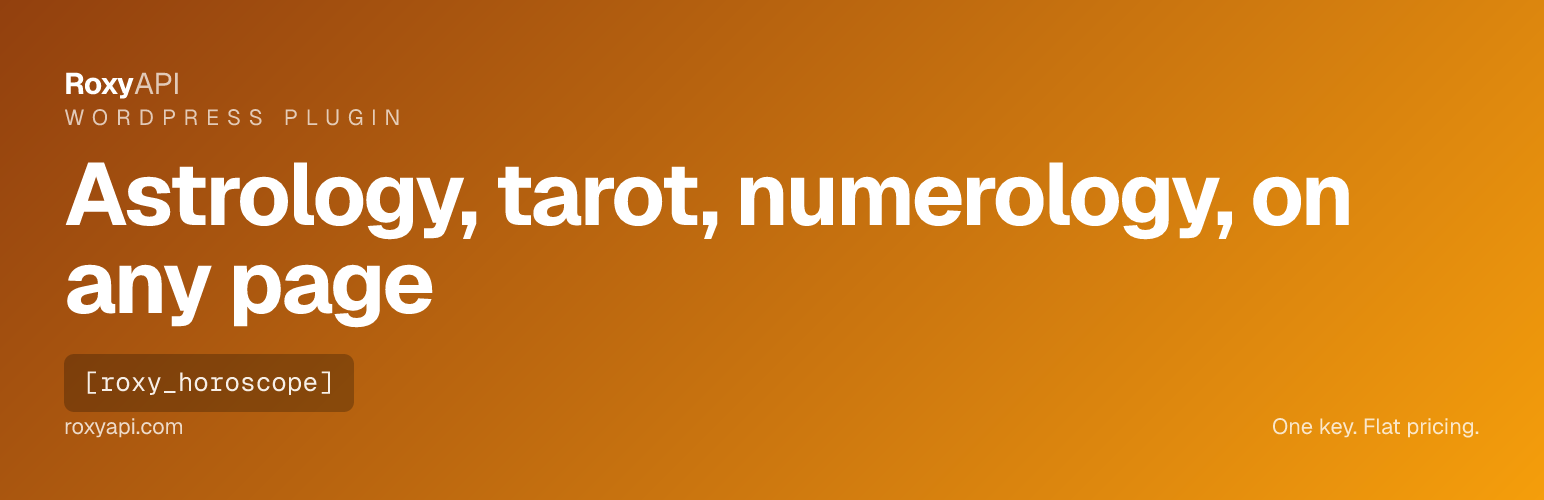
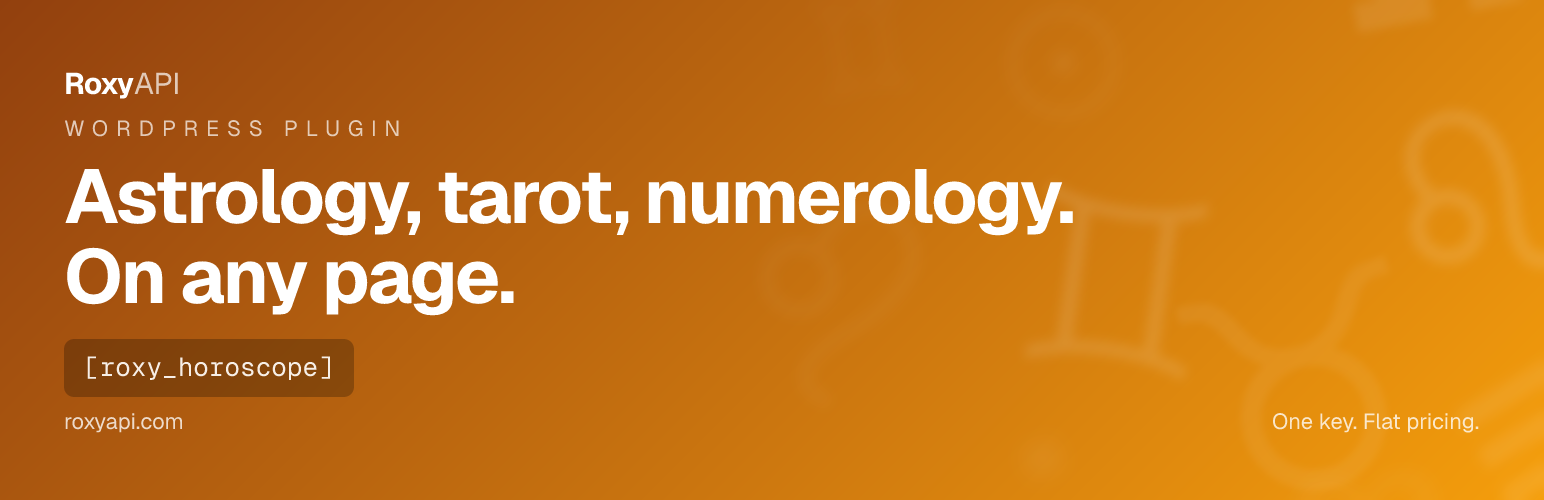
v1.0 wp.org submission polish: assets, generic renderer, plugin check cleanup
.wordpress-org banner pair regenerated to match the brand-glyph family used
across the SDK and starter heroes. Screenshots 1-6 added for the wp.org
listing.

GenericRenderer: drop scalar children whose value just echoes the parent
section key (kundli rashi-of-rashi pattern), render booleans as badges,
suppress calculation/limit/offset noise.

phpcs.xml.dist: silence Plugin Check NonPrefixedVariableFound on templates
and block render.php (extract() locals and core block API contract). Cache
DirectQuery suppressed in src/Api/Cache.php.

Hero shortcode form posts to a sanitized REQUEST_URI rather than empty
action. Admin templates trust their own escaping after wp_kses_post stripped
form controls.

diff --git a/src/Support/GenericRenderer.php b/src/Support/GenericRenderer.php
@@ -143,12 +143,30 @@ class GenericRenderer {
 	/**
 	 * Render a single object level. Recursion entry-point for nested children.
 	 *
-	 * @param array<string, mixed> $data  Associative array (object).
-	 * @param int                  $depth Recursion depth (0 = top-level card).
+	 * @param array<string, mixed> $data       Associative array (object).
+	 * @param int                  $depth      Recursion depth (0 = top-level card).
+	 * @param string               $parent_key Key under which $data was nested in its
+	 *                                         parent object. Used to drop redundant
+	 *                                         scalar children whose value just echoes
+	 *                                         this key (kundli rashi-of-rashi pattern).
 	 * @return string
 	 */
-	private static function render_object( array $data, int $depth ): string {
+	private static function render_object( array $data, int $depth, string $parent_key = '' ): string {
 		$data = self::suppress( $data );
+		// Drop scalar fields whose lowercase string value just echoes the
+		// parent section's key. Catches the kundli rashi pattern where the
+		// API response wraps each rashi as `{aries: {rashi: 'aries', ...}}`
+		// — the inner `rashi: aries` field is redundant noise under a
+		// section already titled "Aries". Spec-agnostic: works for any
+		// endpoint that name-stamps a child object with its parent key.
+		if ( $parent_key !== '' ) {
+			$parent_lc = strtolower( $parent_key );
+			foreach ( $data as $k => $v ) {
+				if ( is_scalar( $v ) && strtolower( (string) $v ) === $parent_lc ) {
+					unset( $data[ $k ] );
+				}
+			}
+		}
 		if ( empty( $data ) ) {
 			return '';
 		}
@@ -274,7 +292,7 @@ class GenericRenderer {
 			$body  = self::render_list( $value, $depth );
 			$count = count( $value );
 		} else {
-			$body  = self::render_object( $value, $depth );
+			$body  = self::render_object( $value, $depth, $key );
 			$count = count( $value );
 		}
 

diff --git a/templates/admin-connected.php b/templates/admin-connected.php
@@ -33,6 +33,15 @@ if ( ! defined( 'ABSPATH' ) ) {
 	exit;
 }
 
+// phpcs:disable WordPress.NamingConventions.PrefixAllGlobals.NonPrefixedVariableFound
+// Variables in this file are local-scope, not globals: templates receive
+// them via Templates::render's `extract( $vars, EXTR_SKIP )` and block
+// render.php files receive them by exact unprefixed name from the WP
+// block API (core passes $attributes, $content, $block, $sign, $date,
+// $period, $wrapper_attributes by contract). PHPCS's static analyzer
+// cannot see the extract or the block-API contract; suppress here to
+// keep Plugin Check's plugin_repo report clean without per-line ignores.
+
 $attribution_input      = isset( $attribution_input ) ? (string) $attribution_input : '';
 $consent_label_input    = isset( $consent_label_input ) ? (string) $consent_label_input : '';
 $accent_color_input     = isset( $accent_color_input ) ? (string) $accent_color_input : '';

diff --git a/templates/admin-onboarding.php b/templates/admin-onboarding.php
@@ -20,6 +20,15 @@ if ( ! defined( 'ABSPATH' ) ) {
 	exit;
 }
 
+// phpcs:disable WordPress.NamingConventions.PrefixAllGlobals.NonPrefixedVariableFound
+// Variables in this file are local-scope, not globals: templates receive
+// them via Templates::render's `extract( $vars, EXTR_SKIP )` and block
+// render.php files receive them by exact unprefixed name from the WP
+// block API (core passes $attributes, $content, $block, $sign, $date,
+// $period, $wrapper_attributes by contract). PHPCS's static analyzer
+// cannot see the extract or the block-API contract; suppress here to
+// keep Plugin Check's plugin_repo report clean without per-line ignores.
+
 $signup_url     = isset( $signup_url ) ? (string) $signup_url : '';
 $playground_url = isset( $playground_url ) ? (string) $playground_url : '';
 $samples        = isset( $samples ) && is_array( $samples ) ? $samples : array();

diff --git a/templates/admin-shortcodes.php b/templates/admin-shortcodes.php
@@ -14,6 +14,15 @@ if ( ! defined( 'ABSPATH' ) ) {
 	exit;
 }
 
+// phpcs:disable WordPress.NamingConventions.PrefixAllGlobals.NonPrefixedVariableFound
+// Variables in this file are local-scope, not globals: templates receive
+// them via Templates::render's `extract( $vars, EXTR_SKIP )` and block
+// render.php files receive them by exact unprefixed name from the WP
+// block API (core passes $attributes, $content, $block, $sign, $date,
+// $period, $wrapper_attributes by contract). PHPCS's static analyzer
+// cannot see the extract or the block-API contract; suppress here to
+// keep Plugin Check's plugin_repo report clean without per-line ignores.
+
 $domains      = isset( $domains ) && is_array( $domains ) ? $domains : array();
 $groups       = isset( $groups ) && is_array( $groups ) ? $groups : array();
 $total_count  = isset( $total_count ) ? (int) $total_count : 0;

diff --git a/src/Api/Cache.php b/src/Api/Cache.php
@@ -121,6 +121,14 @@ class Cache {
 		global $wpdb;
 		$value_like   = '_transient_' . $wpdb->esc_like( 'roxyapi_' ) . '%';
 		$timeout_like = '_transient_timeout_' . $wpdb->esc_like( 'roxyapi_' ) . '%';
+		// Direct DELETE is the only way to drop matching `_transient_*`
+		// rows in a single query — there is no core API for "flush every
+		// transient whose name matches this prefix". WordPress's own
+		// `delete_expired_transients` and `wp_cache_flush_group` work
+		// the same way. Caching the DELETE itself makes no sense (it is
+		// a write; there is nothing to cache). $wpdb->prepare + esc_like
+		// guard the LIKE pattern.
+		// phpcs:ignore WordPress.DB.DirectDatabaseQuery.DirectQuery, WordPress.DB.DirectDatabaseQuery.NoCaching
 		$wpdb->query(
 			$wpdb->prepare(
 				"DELETE FROM {$wpdb->options} WHERE option_name LIKE %s OR option_name LIKE %s",

diff --git a/templates/horoscope.php b/templates/horoscope.php
@@ -19,6 +19,15 @@ if ( ! defined( 'ABSPATH' ) ) {
 	exit;
 }
 
+// phpcs:disable WordPress.NamingConventions.PrefixAllGlobals.NonPrefixedVariableFound
+// Variables in this file are local-scope, not globals: templates receive
+// them via Templates::render's `extract( $vars, EXTR_SKIP )` and block
+// render.php files receive them by exact unprefixed name from the WP
+// block API (core passes $attributes, $content, $block, $sign, $date,
+// $period, $wrapper_attributes by contract). PHPCS's static analyzer
+// cannot see the extract or the block-API contract; suppress here to
+// keep Plugin Check's plugin_repo report clean without per-line ignores.
+
 $sign          = isset( $sign ) ? (string) $sign : 'aries';
 $data          = isset( $data ) && is_array( $data ) ? $data : array();
 $overview      = (string) ( $data['overview'] ?? '' );

diff --git a/blocks/horoscope/render.php b/blocks/horoscope/render.php
@@ -12,6 +12,15 @@ if ( ! defined( 'ABSPATH' ) ) {
 	exit;
 }
 
+// phpcs:disable WordPress.NamingConventions.PrefixAllGlobals.NonPrefixedVariableFound
+// Variables in this file are local-scope, not globals: templates receive
+// them via Templates::render's `extract( $vars, EXTR_SKIP )` and block
+// render.php files receive them by exact unprefixed name from the WP
+// block API (core passes $attributes, $content, $block, $sign, $date,
+// $period, $wrapper_attributes by contract). PHPCS's static analyzer
+// cannot see the extract or the block-API contract; suppress here to
+// keep Plugin Check's plugin_repo report clean without per-line ignores.
+
 $sign   = $attributes['sign'] ?? $block->context['roxyapi/sign'] ?? 'aries';
 $date   = $attributes['date'] ?? 'today';
 $period = $attributes['period'] ?? 'daily';

diff --git a/blocks/astrology-wrapper/render.php b/blocks/astrology-wrapper/render.php
@@ -12,6 +12,15 @@ if ( ! defined( 'ABSPATH' ) ) {
 	exit;
 }
 
+// phpcs:disable WordPress.NamingConventions.PrefixAllGlobals.NonPrefixedVariableFound
+// Variables in this file are local-scope, not globals: templates receive
+// them via Templates::render's `extract( $vars, EXTR_SKIP )` and block
+// render.php files receive them by exact unprefixed name from the WP
+// block API (core passes $attributes, $content, $block, $sign, $date,
+// $period, $wrapper_attributes by contract). PHPCS's static analyzer
+// cannot see the extract or the block-API contract; suppress here to
+// keep Plugin Check's plugin_repo report clean without per-line ignores.
+
 $wrapper_attributes = get_block_wrapper_attributes( array( 'class' => 'roxyapi-wrapper' ) );
 printf(
 	'<div %s>%s</div>',

diff --git a/templates/horoscope-form.php b/templates/horoscope-form.php
@@ -18,6 +18,15 @@
 if ( ! defined( 'ABSPATH' ) ) {
 	exit;
 }
+
+// phpcs:disable WordPress.NamingConventions.PrefixAllGlobals.NonPrefixedVariableFound
+// Variables in this file are local-scope, not globals: templates receive
+// them via Templates::render's `extract( $vars, EXTR_SKIP )` and block
+// render.php files receive them by exact unprefixed name from the WP
+// block API (core passes $attributes, $content, $block, $sign, $date,
+// $period, $wrapper_attributes by contract). PHPCS's static analyzer
+// cannot see the extract or the block-API contract; suppress here to
+// keep Plugin Check's plugin_repo report clean without per-line ignores.
 ?>
 <?php
 // Post back to the same URL. Empty `action=""` works in browsers but

diff --git a/blocks/horoscope/variations.php b/blocks/horoscope/variations.php
@@ -37,7 +37,7 @@ return array(
 		'attributes'  => array(
 			'period' => 'weekly',
 		),
-		'scope'        => array( 'inserter', 'transform' ),
+		'scope'       => array( 'inserter', 'transform' ),
 	),
 	array(
 		'name'        => 'monthly',
@@ -46,6 +46,6 @@ return array(
 		'attributes'  => array(
 			'period' => 'monthly',
 		),
-		'scope'        => array( 'inserter', 'transform' ),
+		'scope'       => array( 'inserter', 'transform' ),
 	),
 );
